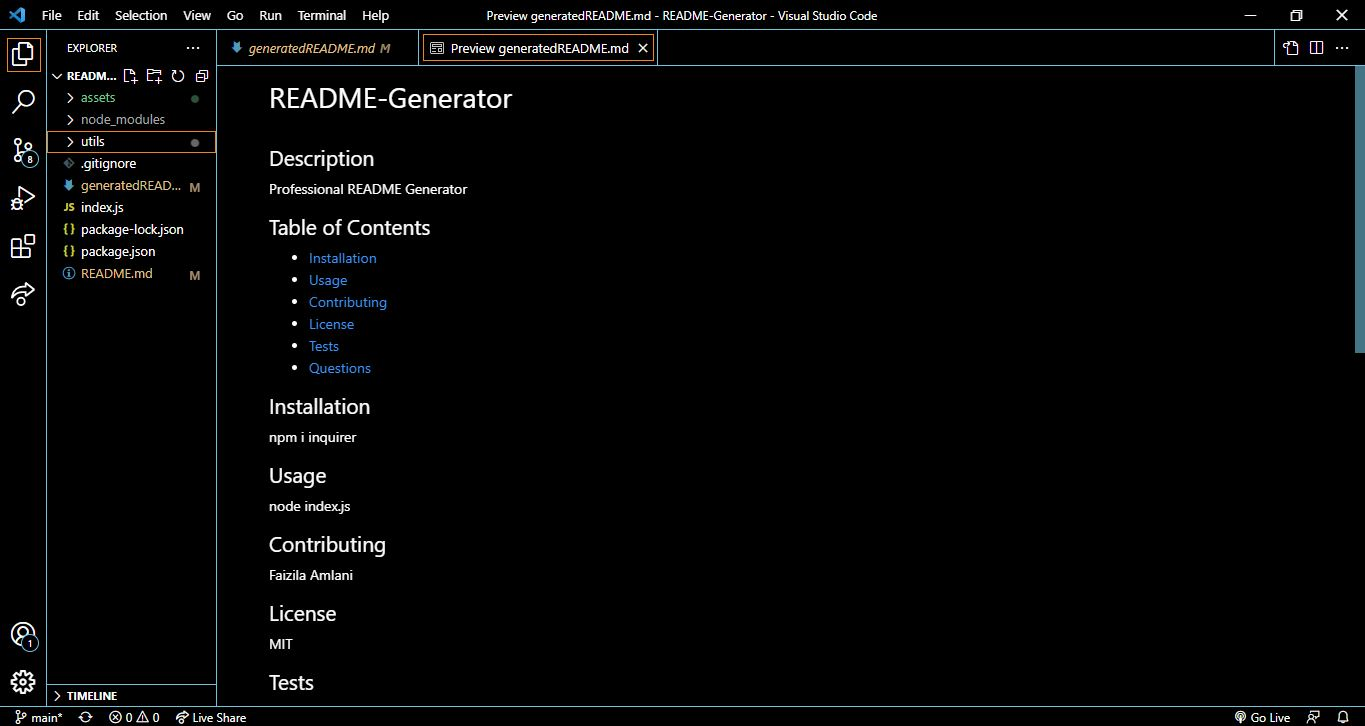
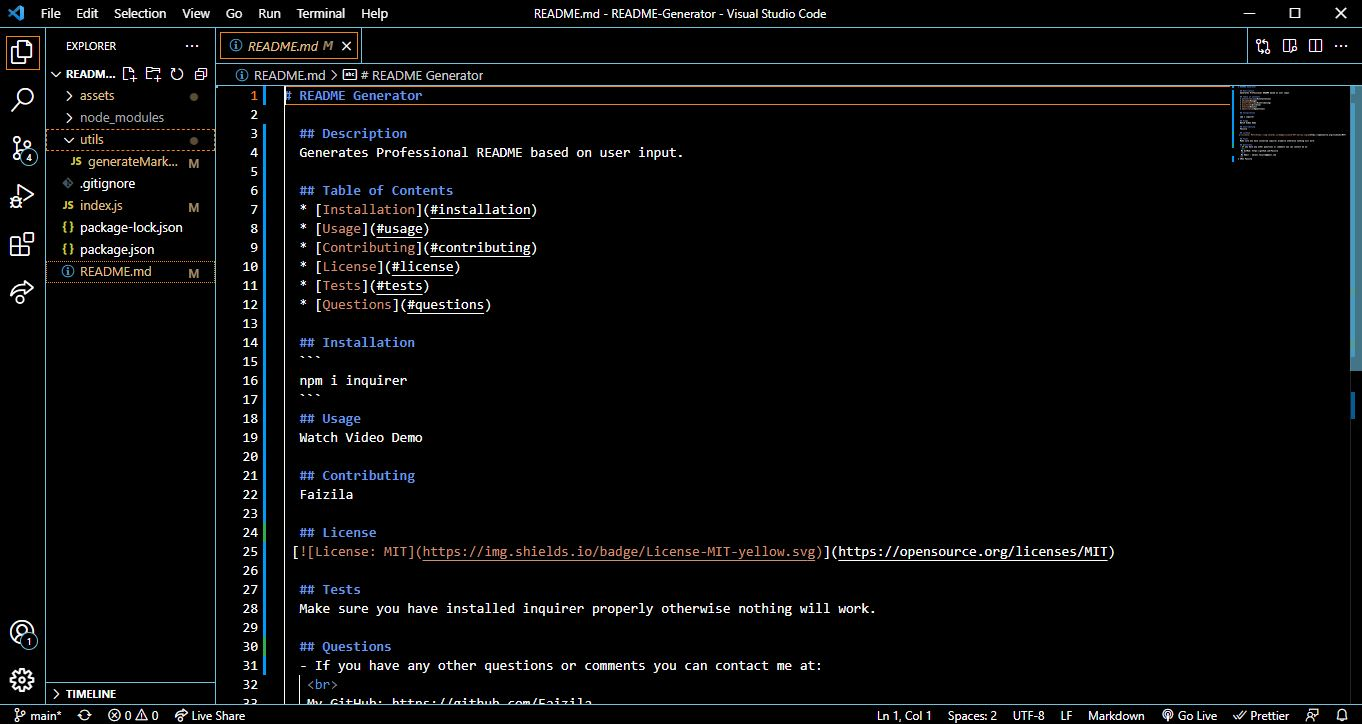
clean code and updated generatedMarkdown.js

Changed region(s): [[0.0, 0.0, 1.0, 1.0], [0.6476, 0.9724, 1.0, 1.0], [0.0, 0.395, 0.0308, 0.4254]]

diff --git a/utils/generateMarkdown.js b/utils/generateMarkdown.js
@@ -1,63 +1,3 @@
-//function that returns a license badge based on which license is passed in
-// If there is no license, return an empty string
-// function renderLicenseSection(license) {
-//   let license = "## License";
-//   let licenseBadge = "";
-
-// switch (data.license) {
-//   case "None":
-//       license = "";
-//       break;
-//       case "The Unlicense":
-//         licenseBadge =
-//             "[![License: Unlicense](https://img.shields.io/badge/license-Unlicense-blue.svg)](http://unlicense.org/)";
-//         break;
-
-//       case "MIT License":
-//         licenseBadge =
-//         "[![License: MIT](https://img.shields.io/badge/License-MIT-yellow.svg)](https://opensource.org/licenses/MIT)";
-//         break;
-
-//         case "Apache License 2.0":
-//           licenseBadge =
-//           "[![License](https://img.shields.io/badge/License-Apache%202.0-blue.svg)](https://opensource.org/licenses/Apache-2.0)";
-//           break;
-
-//       case "Mozilla Public License 2.0":
-//         licenseBadge =
-//         "[![License: MPL 2.0](https://img.shields.io/badge/License-MPL%202.0-brightgreen.svg)](https://opensource.org/licenses/MPL-2.0)";
-//         break;
-
-//         case "GNU GPL v2":
-//         licenseBadge =
-//             "[![License: GPL v2](https://img.shields.io/badge/License-GPL%20v2-blue.svg)](https://www.gnu.org/licenses/old-licenses/gpl-2.0.en.html)";
-//         break;
-
-//     case "GNU GPL v3":
-//         licenseBadge =
-//             "[![License: AGPL v3](https://img.shields.io/badge/License-AGPL%20v3-blue.svg)](https://www.gnu.org/licenses/agpl-3.0)";
-//         break;
-
-//     case "GNU AGPL v3":
-//         licenseBadge =
-//             "[![License: AGPL v3](https://img.shields.io/badge/License-AGPL%20v3-blue.svg)](https://www.gnu.org/licenses/agpl-3.0)";
-//         break;
-
-//     case "GNU LGPL v3":
-//         licenseBadge =
-//             "[![License: LGPL v3](https://img.shields.io/badge/License-LGPL%20v3-blue.svg)](https://www.gnu.org/licenses/lgpl-3.0)";
-//         break;
-// }
-
-
-// //function that returns the license link
-// // If there is no license, return an empty string
-// function renderLicenseLink(license) {}
-
-// //function that returns the license section of README
-// // If there is no license, return an empty string
-// function renderLicenseSection(license) {}
-
 //function to generate markdown for README
 function generateMarkdown(data) {
   
@@ -67,9 +7,10 @@ switch (data.license) {
   case "None":
       license = "";
       break;
+
       case "The Unlicense":
-        licenseBadge =
-            "[![License: Unlicense](https://img.shields.io/badge/license-Unlicense-blue.svg)](http://unlicense.org/)";
+      licenseBadge =
+        "[![License: Unlicense](https://img.shields.io/badge/license-Unlicense-blue.svg)](http://unlicense.org/)";
         break;
 
       case "MIT License":
@@ -106,6 +47,11 @@ switch (data.license) {
         licenseBadge =
             "[![License: LGPL v3](https://img.shields.io/badge/License-LGPL%20v3-blue.svg)](https://www.gnu.org/licenses/lgpl-3.0)";
         break;
+        
+  case "ISC":
+          licenseBadge =
+              "[![License: ISC](https://img.shields.io/badge/License-ISC-blue.svg)](https://opensource.org/licenses/ISC)";
+          break;
 }
   return `# ${data.title}
 
@@ -121,8 +67,9 @@ switch (data.license) {
   * [Questions](#questions)
   
   ## Installation
-  ${data.install}
-  
+  \`\`\` 
+  npm i ${data.install}
+  \`\`\` 
   ## Usage
   ${data.usage}
       
@@ -130,7 +77,7 @@ switch (data.license) {
   ${data.contributing}
   
   ## License
-${licenseBadge}
+ ${licenseBadge}
   
   ## Tests
   ${data.tests}

diff --git a/index.js b/index.js
@@ -44,6 +44,7 @@ const questions = [
             "GNU GPL v3",
             "GNU AGPL v3",
             "GNU LGPL v3",
+            "ISC",
         ],  
         name: 'license',
     },
@@ -83,7 +84,7 @@ function init() {
 	inquirer.prompt(questions)
     .then((response) => {
 		const readmeContent = generate(response);
-        writeToFile("generatedREADME.md", readmeContent, (err) =>    
+        writeToFile("README.md", readmeContent, (err) =>    
 		err ? console.log("Error, try again!") : console.log('Your README has been successfully created!'))
 });
 }
